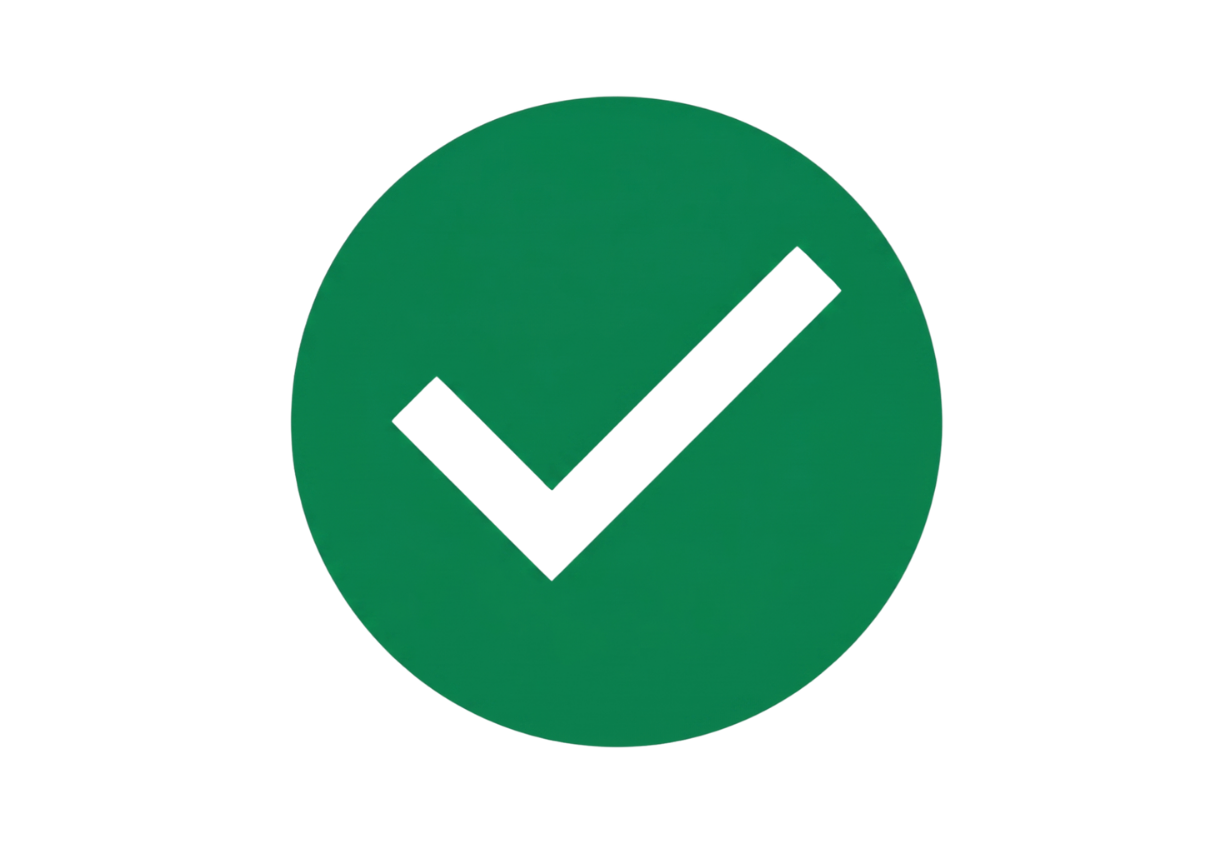
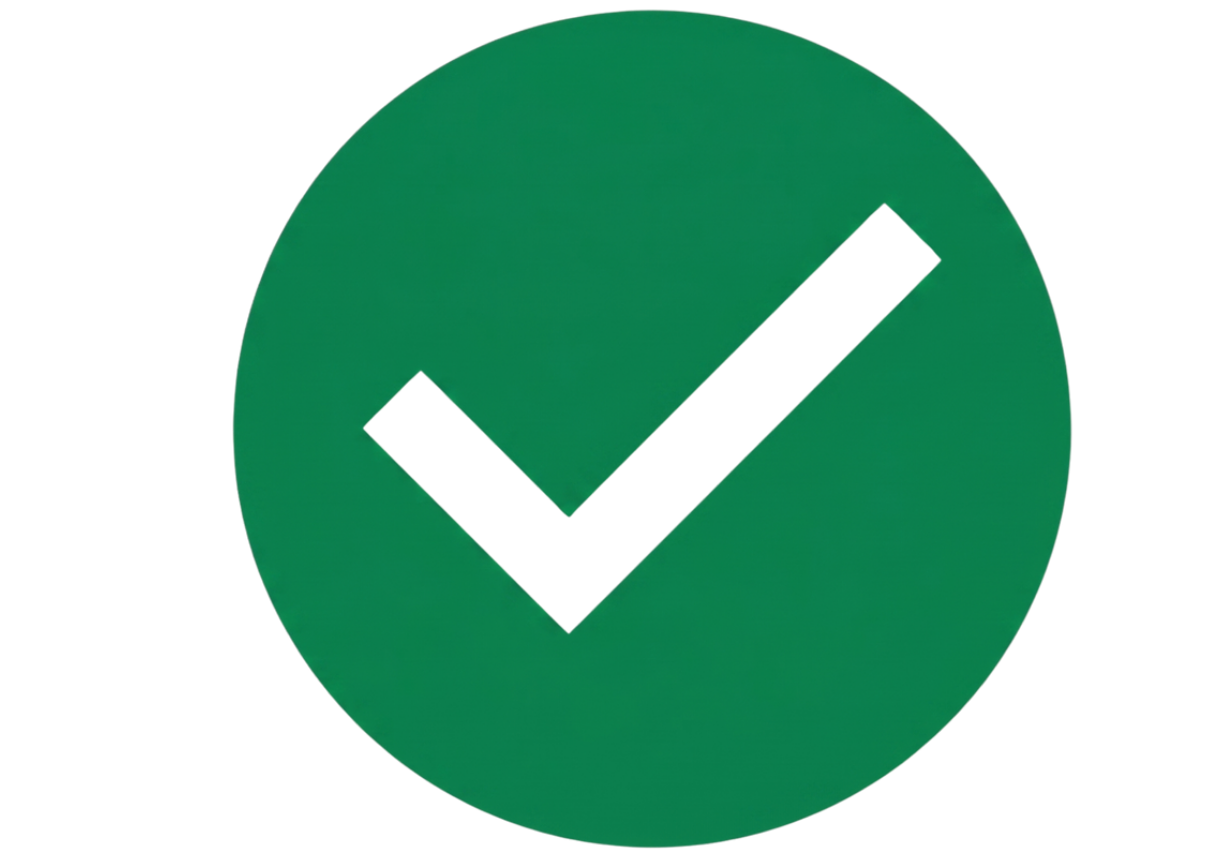
backup proyecto BOProt

Changed region(s): [[0.1854, 0.0, 0.8959, 1.0], [0.3707, 0.4688, 0.4016, 0.5]]

diff --git a/lib/main.dart b/lib/main.dart
@@ -1,5 +1,8 @@
 import 'package:flutter/material.dart';
 import 'dart:math';
+import 'package:screenshot/screenshot.dart';
+import 'package:share_plus/share_plus.dart';
+import 'dart:io';
 
 class TransferData {
   final String cuentaOrigen;
@@ -34,6 +37,8 @@ class MyApp extends StatelessWidget {
     );
   }
 }
+
+/* PANTALLA DE RECOPILACION DE DATOS PANTALLA 1*/
 
 class TransferScreen extends StatefulWidget {
   const TransferScreen({super.key});
@@ -329,14 +334,24 @@ class _ToggleMock extends StatelessWidget {
   }
 }
 
-//Confirmation Screen la joya de la coronaƒ√
-class ConfirmationScreen extends StatelessWidget {
+/* PANTALLA DE CONFIRMACION PANTALLA 2*/
+
+//esta clase queda como widget que solo recibe datos
+class ConfirmationScreen extends StatefulWidget {
   final TransferData data;
 
   const ConfirmationScreen({super.key, required this.data});
 
+  @override
+  State<ConfirmationScreen> createState() => _ConfirmationScreenState();
+}
+
+// ahora aqui va todo el codigo de el layout de confirmacion
+//corona
+class _ConfirmationScreenState extends State<ConfirmationScreen> {
+  final ScreenshotController screenshotController = ScreenshotController();
+
   String _formatCuenta(String cuenta) {
-    // Aplica máscara 99-333-999999-3
     final digits = cuenta.replaceAll(RegExp(r'\D'), '');
     if (digits.length < 11) return cuenta;
     return '${digits.substring(0, 2)}-${digits.substring(2, 5)}-${digits.substring(5, 11)}-${digits.substring(11, 12)}';
@@ -376,7 +391,12 @@ class ConfirmationScreen extends StatelessWidget {
             child: Center(
               child: Container(
                 margin: const EdgeInsets.symmetric(horizontal: 16),
-                padding: const EdgeInsets.all(16),
+                padding: const EdgeInsets.only(
+                  left: 16,
+                  right: 16,
+                  top: 2,
+                  bottom: 8,
+                ), //este es el margen entre el contenedor y el contenido
                 decoration: BoxDecoration(
                   color: const Color(0xFF1E1E1E),
                   borderRadius: BorderRadius.circular(16),
@@ -385,79 +405,83 @@ class ConfirmationScreen extends StatelessWidget {
                 child: Column(
                   crossAxisAlignment: CrossAxisAlignment.start,
                   children: [
-                    Column(
-                      children: [
-                        // 🔹 TÍTULO + COMPARTIR
-                        Stack(
-                          children: [
-                            // CENTRO REAL
-                            const Center(
+                    // 🔹 TÍTULO + COMPARTIR
+                    SizedBox(
+                      height:
+                          76, // 👈 altura explícita para que Positioned no se corte
+                      child: Stack(
+                        children: [
+                          // Título centrado absolutamente
+                          const Align(
+                            alignment: Alignment.center,
+                            child: Center(
                               child: Text(
                                 "Transferencia Exitosa",
                                 style: TextStyle(
-                                  fontSize: 14,
+                                  fontSize: 15,
                                   fontWeight: FontWeight.bold,
                                 ),
                               ),
                             ),
-
-                            // DERECHA
-                            Positioned(
-                              right: 0,
-                              top: 0,
-                              child: Column(
-                                children: [
-                                  Image.asset(
-                                    'assets/images/share001.png',
-                                    height: 42,
-                                    width: 42,
-                                  ),
-                                  const SizedBox(height: 2),
-                                  const Text(
-                                    "Compartir",
-                                    style: TextStyle(
-                                      fontSize: 11,
-                                      color: Colors.white,
-                                    ),
-                                  ),
-                                ],
-                              ),
-                            ),
-                          ],
-                        ),
-
-                        const SizedBox(height: 12),
-
-                        // 🔹 CHECK CENTRADO
-                        Center(
-                          child: Image.asset(
-                            'assets/images/check001.png',
-                            height: 70,
-                            width: 70,
                           ),
-                        ),
-
-                        const SizedBox(height: 12),
-                      ],
+                          // Share anclado a la derecha
+                          Positioned(
+                            right: 20,
+                            top: 30,
+                            child: Column(
+                              crossAxisAlignment: CrossAxisAlignment
+                                  .end, // 👈 alinea a la derecha
+                              children: [
+                                Image.asset(
+                                  'assets/images/share001.png',
+                                  height: 45,
+                                  width: 60,
+                                ),
+                              ],
+                            ),
+                          ),
+                        ],
+                      ),
                     ),
+
+                    const SizedBox(height: 0),
+
+                    // 🔹 CHECK CENTRADO
+                    Center(
+                      child: Image.asset(
+                        'assets/images/check001.png',
+                        height: 75, //tamano de el check
+                        width: 75, //tamano de el check
+                      ),
+                    ),
+
+                    const SizedBox(height: 6),
 
                     // Campos de confirmación
                     _ConfirmField(
-                        label: "Cuenta Origen", value: data.cuentaOrigen),
+                        label: "Cuenta Origen",
+                        value: widget.data.cuentaOrigen),
                     const SizedBox(height: 4),
                     _ConfirmField(
                         label: "Cuenta Destino",
-                        value: _formatCuenta(data.cuentaDestino)),
+                        value: _formatCuenta(widget.data.cuentaDestino)),
                     const SizedBox(height: 4),
-                    _ConfirmField(label: "Nombre", value: data.nombre),
+                    _ConfirmField(
+                      label: "Nombre",
+                      value: widget.data.nombre.toUpperCase(),
+                      singleLine:
+                          true, // 👈 este campo se corta si es muy grande la cadena
+                    ),
                     const SizedBox(height: 4),
                     _ConfirmField(
                         label: "Monto Transferido",
-                        value: _formatMonto(data.monto)),
+                        value: _formatMonto(widget.data.monto)),
                     const SizedBox(height: 4),
                     _ConfirmField(label: "Referencia", value: referencia),
 
-                    const SizedBox(height: 14),
+                    const SizedBox(
+                        height:
+                            30), //space between last textbox and green buttons
 
                     // Botones
                     Row(
@@ -490,12 +514,17 @@ class ConfirmationScreen extends StatelessWidget {
   }
 }
 
-// Campo de solo lectura con label en negrita
+// campo de solo lectura para confirmacion
 class _ConfirmField extends StatelessWidget {
   final String label;
   final String value;
+  final bool singleLine; // 👈 parametro que controla el overflow de texto
 
-  const _ConfirmField({required this.label, required this.value});
+  const _ConfirmField({
+    required this.label,
+    required this.value,
+    this.singleLine = false,
+  });
 
   @override
   Widget build(BuildContext context) {
@@ -512,13 +541,16 @@ class _ConfirmField extends StatelessWidget {
         const SizedBox(height: 6),
         Container(
           width: double.infinity,
-          padding: const EdgeInsets.symmetric(horizontal: 12, vertical: 10),
+          padding: const EdgeInsets.symmetric(horizontal: 12, vertical: 7),
           decoration: BoxDecoration(
             border: Border.all(color: Colors.grey),
             borderRadius: BorderRadius.circular(10),
           ),
           child: Text(
             value,
+            maxLines: singleLine ? 1 : null, // 👈
+            overflow:
+                singleLine ? TextOverflow.ellipsis : TextOverflow.visible, // 👈
             style: const TextStyle(color: Colors.white, fontSize: 14),
           ),
         ),
@@ -568,9 +600,9 @@ class _BottomNav extends StatelessWidget {
   @override
   Widget build(BuildContext context) {
     return Container(
-      height: 80,
+      height: 70,
       color: const Color(0xFF2C2C2C), // 👈 gris oscuro más parecido al mockup
-      padding: const EdgeInsets.symmetric(horizontal: 25), // 👈 más margen
+      padding: const EdgeInsets.symmetric(horizontal: 20), // 👈 más margen
       child: Row(
         mainAxisAlignment:
             MainAxisAlignment.spaceEvenly, // 👈 agrupa más al centro
@@ -613,7 +645,7 @@ class _NavItem extends StatelessWidget {
       crossAxisAlignment: CrossAxisAlignment.center,
       mainAxisSize: MainAxisSize.min, // 👈 no ocupa más espacio del necesario
       children: [
-        Icon(icon, color: color, size: 35),
+        Icon(icon, color: color, size: 32),
         const SizedBox(height: 4),
         Flexible(
           child: Text(

diff --git a/macos/Flutter/GeneratedPluginRegistrant.swift b/macos/Flutter/GeneratedPluginRegistrant.swift
@@ -5,6 +5,10 @@
 import FlutterMacOS
 import Foundation
 
+import path_provider_foundation
+import share_plus
 
 func RegisterGeneratedPlugins(registry: FlutterPluginRegistry) {
+  PathProviderPlugin.register(with: registry.registrar(forPlugin: "PathProviderPlugin"))
+  SharePlusMacosPlugin.register(with: registry.registrar(forPlugin: "SharePlusMacosPlugin"))
 }

diff --git a/windows/flutter/generated_plugin_registrant.cc b/windows/flutter/generated_plugin_registrant.cc
@@ -6,6 +6,12 @@
 
 #include "generated_plugin_registrant.h"
 
+#include <share_plus/share_plus_windows_plugin_c_api.h>
+#include <url_launcher_windows/url_launcher_windows.h>
 
 void RegisterPlugins(flutter::PluginRegistry* registry) {
+  SharePlusWindowsPluginCApiRegisterWithRegistrar(
+      registry->GetRegistrarForPlugin("SharePlusWindowsPluginCApi"));
+  UrlLauncherWindowsRegisterWithRegistrar(
+      registry->GetRegistrarForPlugin("UrlLauncherWindows"));
 }

diff --git a/linux/flutter/generated_plugin_registrant.cc b/linux/flutter/generated_plugin_registrant.cc
@@ -6,6 +6,10 @@
 
 #include "generated_plugin_registrant.h"
 
+#include <url_launcher_linux/url_launcher_plugin.h>
 
 void fl_register_plugins(FlPluginRegistry* registry) {
+  g_autoptr(FlPluginRegistrar) url_launcher_linux_registrar =
+      fl_plugin_registry_get_registrar_for_plugin(registry, "UrlLauncherPlugin");
+  url_launcher_plugin_register_with_registrar(url_launcher_linux_registrar);
 }
